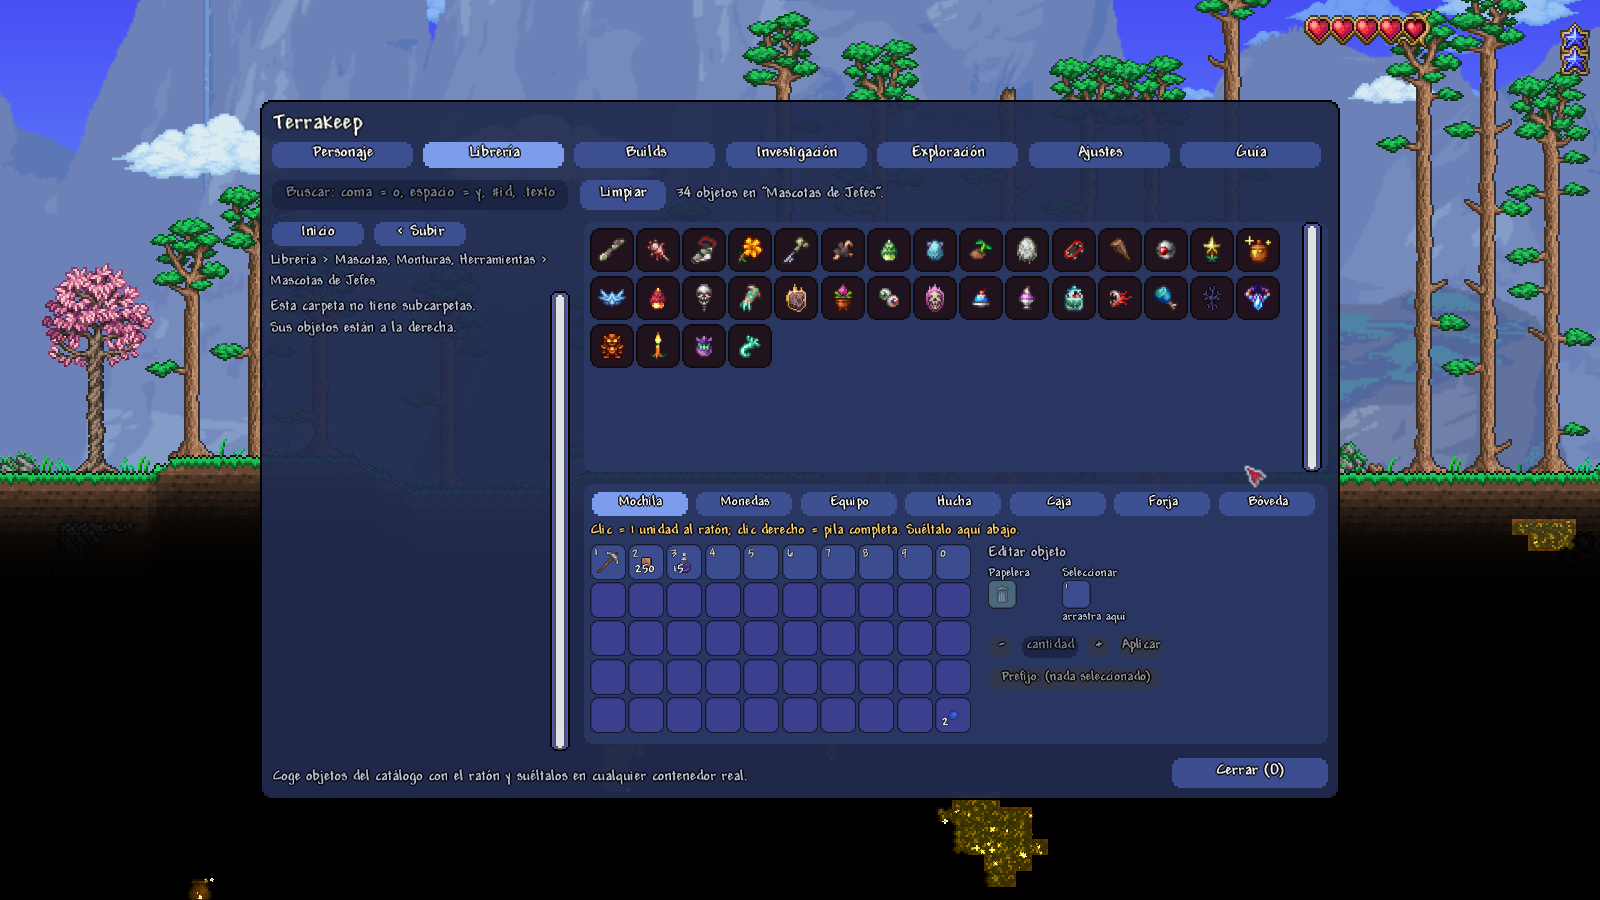
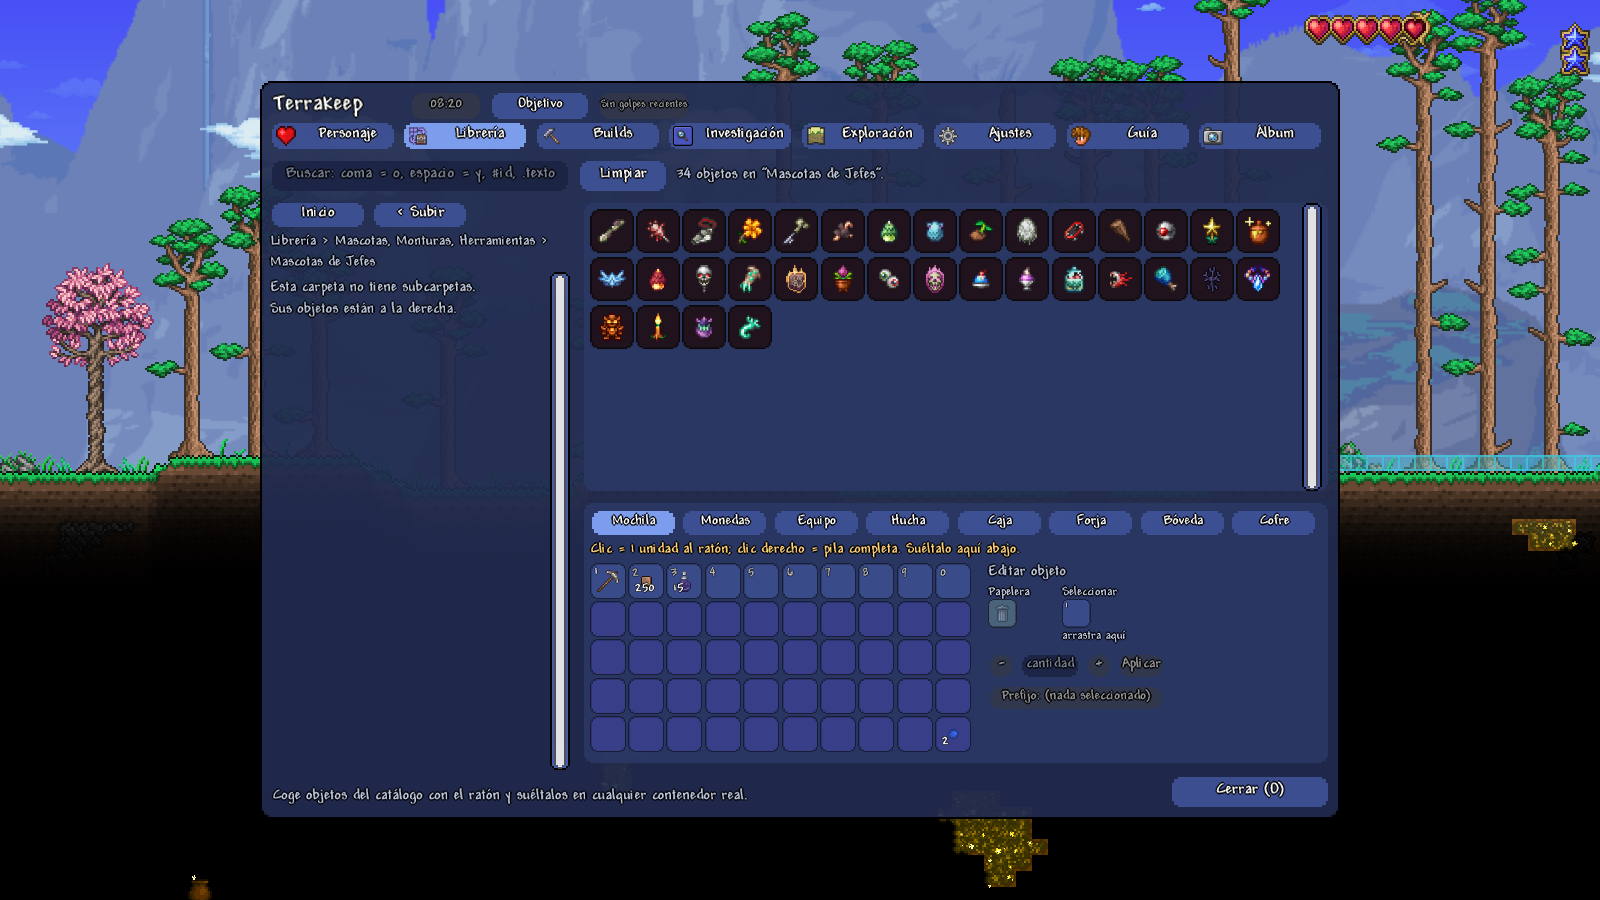
Actualiza las 4 capturas del README con la UI de la v0.6.0
Capturas reales del back buffer, dentro del mundo de prueba TerrakeepPrueba
(sandboxes -tmlsavedirectory), con el rediseño TM1-TM6:
- 01-guia-calamity: Guía con Calamity, chips de cabecera (reloj, Objetivo, DPS)
  y tarjeta con el sprite real de Yharon (verificar-guia.ps1 -Calamity).
- 02-album: Álbum con pestañas con icono de sprite (verificar-hitos.ps1),
  recortado al panel desde 2560x1440.
- 03-builds: dos filas de filtros y anillo 0/13 junto a Vanilla
  (verificar-espaciado.ps1 -Calamity, 1600x900 es).
- 04-libreria: Librería en Mascotas de Jefes (misma pasada).
Textos alternativos del README ajustados a lo que se ve ahora.

Claude-Session: https://claude.ai/code/session_01K7SsmyJLJN7mL9bZmtPKMP

diff --git a/README.md b/README.md
@@ -18,12 +18,12 @@ Terrakeep junto al bestiario y los emotes, con el inventario abierto.
 ## Capturas
 
 <p align="center">
-  <img src="docs/screenshots/01-guia-calamity.png" width="49%" alt="Pestaña Guía con Calamity instalado, mostrando el objetivo actual y la hoja de ruta" />
-  <img src="docs/screenshots/02-album.png" width="49%" alt="Pestaña Álbum con las capturas automáticas de cada hito cerrado" />
+  <img src="docs/screenshots/01-guia-calamity.png" width="49%" alt="Pestaña Guía con Calamity instalado: cabecera con reloj, objetivo y chip de DPS, tarjeta con el sprite real de Yharon, lo que te falta y la lectura del jefe" />
+  <img src="docs/screenshots/02-album.png" width="49%" alt="Pestaña Álbum con las capturas automáticas de cada hito cerrado, bajo la barra de pestañas con icono de sprite" />
 </p>
 <p align="center">
-  <img src="docs/screenshots/03-builds.png" width="49%" alt="Pestaña Builds con el selector Vanilla/Calamity y las tres columnas de armadura, armas y accesorios" />
-  <img src="docs/screenshots/04-libreria.png" width="49%" alt="Pestaña Librería navegando la carpeta Mascotas de Jefes" />
+  <img src="docs/screenshots/03-builds.png" width="49%" alt="Pestaña Builds con dos filas de filtros, el anillo de progreso 0/13 junto al alternador Vanilla, las tres columnas de armadura, armas y accesorios y los códigos de build" />
+  <img src="docs/screenshots/04-libreria.png" width="49%" alt="Pestaña Librería navegando la carpeta Mascotas de Jefes, con los ocho destinos (incluido Cofre) abajo" />
 </p>
 
 ## Qué hace
